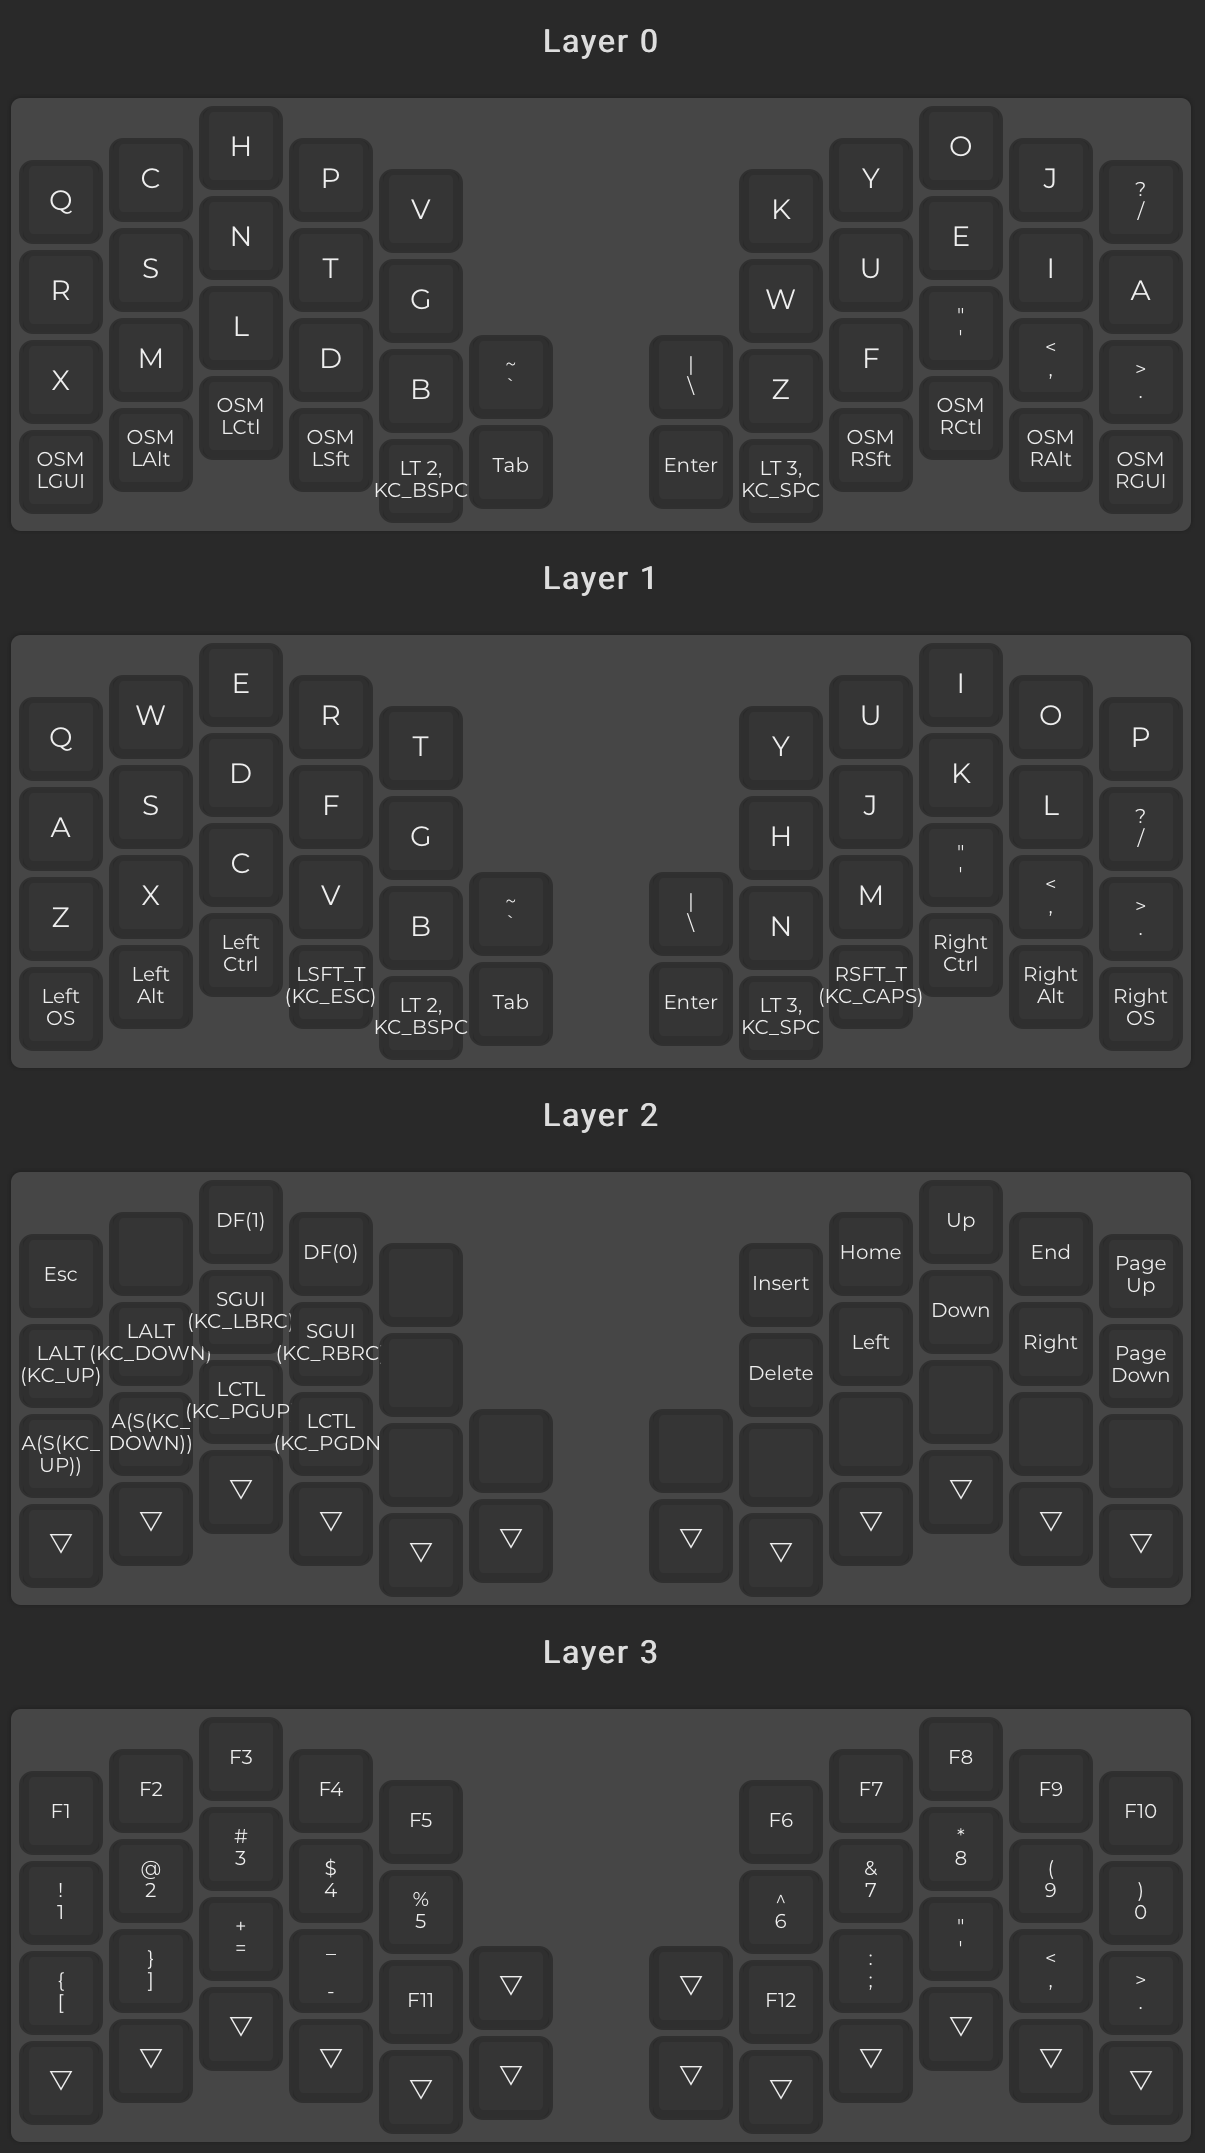
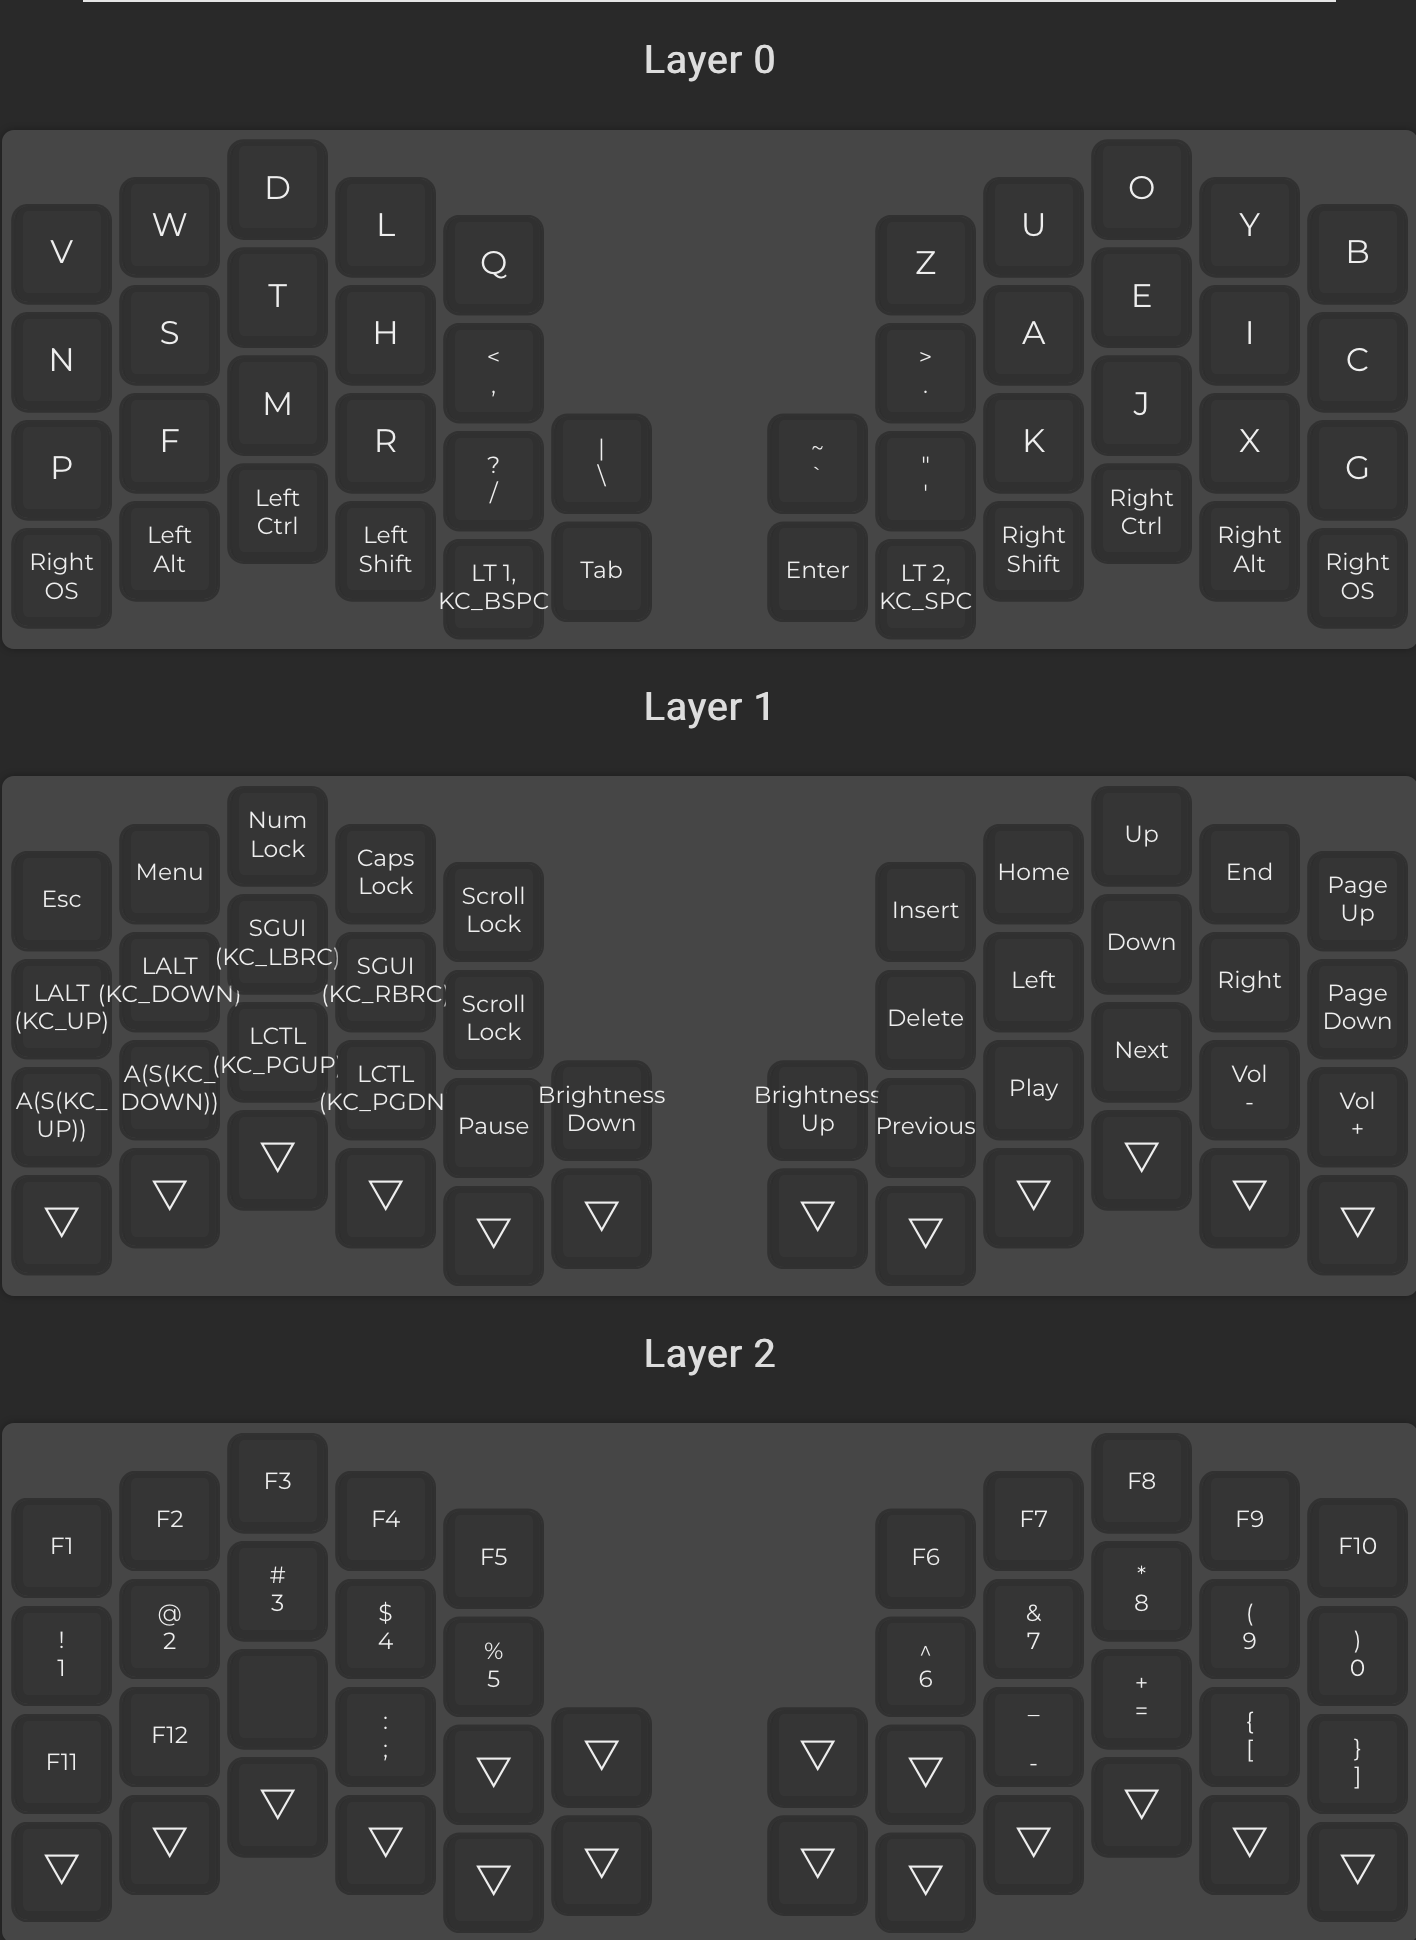
Engram!

diff --git a/keymap.c b/keymap.c
@@ -7,8 +7,7 @@
  */
 
 const uint16_t PROGMEM keymaps[][MATRIX_ROWS][MATRIX_COLS] = {
-	[0] = LAYOUT(KC_Q, KC_C, KC_H, KC_P, KC_V, KC_K, KC_Y, KC_O, KC_J, KC_SLSH, KC_R, KC_S, KC_N, KC_T, KC_G, KC_W, KC_U, KC_E, KC_I, KC_A, KC_X, KC_M, KC_L, KC_D, KC_B, KC_GRV, KC_BSLS, KC_Z, KC_F, KC_QUOT, KC_COMM, KC_DOT, OSM(MOD_LGUI), OSM(MOD_LALT), OSM(MOD_LCTL), OSM(MOD_LSFT), LT(2,KC_BSPC), KC_TAB, KC_ENT, LT(3,KC_SPC), OSM(MOD_RSFT), OSM(MOD_RCTL), OSM(MOD_RALT), OSM(MOD_RGUI)),
-	[1] = LAYOUT(KC_Q, KC_W, KC_E, KC_R, KC_T, KC_Y, KC_U, KC_I, KC_O, KC_P, KC_A, KC_S, KC_D, KC_F, KC_G, KC_H, KC_J, KC_K, KC_L, KC_SLSH, KC_Z, KC_X, KC_C, KC_V, KC_B, KC_GRV, KC_BSLS, KC_N, KC_M, KC_QUOT, KC_COMM, KC_DOT, KC_LGUI, KC_LALT, KC_LCTL, LSFT_T(KC_ESC), LT(2,KC_BSPC), KC_TAB, KC_ENT, LT(3,KC_SPC), RSFT_T(KC_CAPS), KC_RCTL, KC_RALT, KC_RGUI),
-	[2] = LAYOUT(KC_ESC, KC_NO, DF(1), DF(0), KC_NO, KC_INS, KC_HOME, KC_UP, KC_END, KC_PGUP, LALT(KC_UP), LALT(KC_DOWN), SGUI(KC_LBRC), SGUI(KC_RBRC), KC_NO, KC_DEL, KC_LEFT, KC_DOWN, KC_RGHT, KC_PGDN, A(S(KC_UP)), A(S(KC_DOWN)), LCTL(KC_PGUP), LCTL(KC_PGDN), KC_NO, KC_NO, KC_NO, KC_NO, KC_NO, KC_NO, KC_NO, KC_NO, KC_TRNS, KC_TRNS, KC_TRNS, KC_TRNS, KC_TRNS, KC_TRNS, KC_TRNS, KC_TRNS, KC_TRNS, KC_TRNS, KC_TRNS, KC_TRNS),
-	[3] = LAYOUT(KC_F1, KC_F2, KC_F3, KC_F4, KC_F5, KC_F6, KC_F7, KC_F8, KC_F9, KC_F10, KC_1, KC_2, KC_3, KC_4, KC_5, KC_6, KC_7, KC_8, KC_9, KC_0, KC_LBRC, KC_RBRC, KC_EQL, KC_MINS, KC_F11, KC_TRNS, KC_TRNS, KC_F12, KC_SCLN, KC_QUOT, KC_COMM, KC_DOT, KC_TRNS, KC_TRNS, KC_TRNS, KC_TRNS, KC_TRNS, KC_TRNS, KC_TRNS, KC_TRNS, KC_TRNS, KC_TRNS, KC_TRNS, KC_TRNS)
+	[0] = LAYOUT(KC_V, KC_W, KC_D, KC_L, KC_Q, KC_Z, KC_U, KC_O, KC_Y, KC_B, KC_N, KC_S, KC_T, KC_H, KC_COMM, KC_DOT, KC_A, KC_E, KC_I, KC_C, KC_P, KC_F, KC_M, KC_R, KC_SLSH, KC_BSLS, KC_GRV, KC_QUOT, KC_K, KC_J, KC_X, KC_G, KC_RGUI, KC_LALT, KC_LCTL, KC_LSFT, LT(1,KC_BSPC), KC_TAB, KC_ENT, LT(2,KC_SPC), KC_RSFT, KC_RCTL, KC_RALT, KC_RGUI),
+	[1] = LAYOUT(KC_ESC, KC_APP, KC_NLCK, KC_CAPS, KC_SLCK, KC_INS, KC_HOME, KC_UP, KC_END, KC_PGUP, LALT(KC_UP), LALT(KC_DOWN), SGUI(KC_LBRC), SGUI(KC_RBRC), KC_SLCK, KC_DEL, KC_LEFT, KC_DOWN, KC_RGHT, KC_PGDN, A(S(KC_UP)), A(S(KC_DOWN)), LCTL(KC_PGUP), LCTL(KC_PGDN), KC_PAUS, KC_BRID, KC_BRIU, KC_MPRV, KC_MPLY, KC_MNXT, KC_VOLD, KC_VOLU, KC_TRNS, KC_TRNS, KC_TRNS, KC_TRNS, KC_TRNS, KC_TRNS, KC_TRNS, KC_TRNS, KC_TRNS, KC_TRNS, KC_TRNS, KC_TRNS),
+	[2] = LAYOUT(KC_F1, KC_F2, KC_F3, KC_F4, KC_F5, KC_F6, KC_F7, KC_F8, KC_F9, KC_F10, KC_1, KC_2, KC_3, KC_4, KC_5, KC_6, KC_7, KC_8, KC_9, KC_0, KC_F11, KC_F12, KC_NO, KC_SCLN, KC_TRNS, KC_TRNS, KC_TRNS, KC_TRNS, KC_MINS, KC_EQL, KC_LBRC, KC_RBRC, KC_TRNS, KC_TRNS, KC_TRNS, KC_TRNS, KC_TRNS, KC_TRNS, KC_TRNS, KC_TRNS, KC_TRNS, KC_TRNS, KC_TRNS, KC_TRNS)
 };

diff --git a/config.h b/config.h
@@ -4,8 +4,3 @@
 #define TAPPING_TERM 200
 #define IGNORE_MOD_TAP_INTERRUPT
 #define PERMISSIVE_HOLD
-/*
- * OneShot options
- */
-#define ONESHOT_TAP_TOGGLE 2
-#define ONESHOT_TIMEOUT 2000
